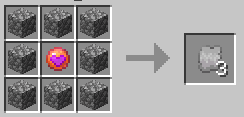
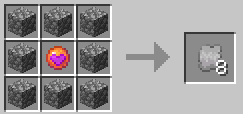
Expanded rune system: Introduced customizable Rune registry, added special crafting recipe from potions, updated translations, and enhanced texture with dyeable overlays. Streamlined registrations.

diff --git a/src/main/java/com/matibi/thealchemiststouch/datagen/ModRecipeProvider.java b/src/main/java/com/matibi/thealchemiststouch/datagen/ModRecipeProvider.java
@@ -40,7 +40,7 @@ public class ModRecipeProvider extends FabricRecipeProvider {
                         .criterion(hasItem(Items.POISONOUS_POTATO), conditionsFromItem(Items.POISONOUS_POTATO))
                         .offerTo(exporter);
 
-                createShaped(RecipeCategory.BREWING, ModRunes.RUNE, 3)
+                createShaped(RecipeCategory.BREWING, ModRunes.RUNE, 8)
                         .pattern("SSS")
                         .pattern("SAS")
                         .pattern("SSS")
